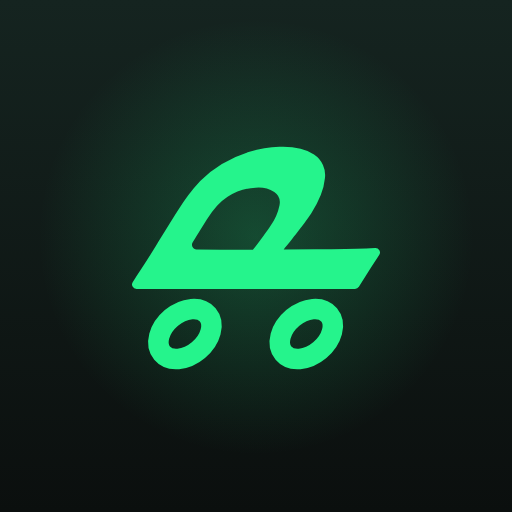
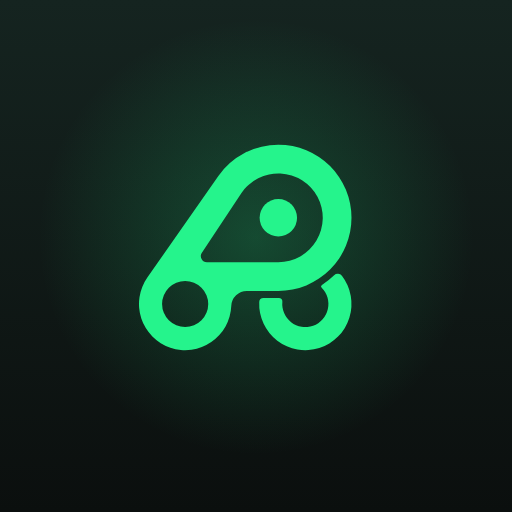
chore(play): el arte de la ficha deja de ensenar la marca de 2022 [PLAY-THE-LISTING-ART-STILL-SHOWS-THE-2022-MARK-001]
La marca de 2026 entro en las 21 superficies del producto, pero los PNG YA RENDERIZADOS de la
ficha de Play no se habian vuelto a generar: el icono de 512 y el grafico de funciones seguian
siendo el render de PLAY-LISTING-001, con el logo de 2022 y su disco.

Lo primero que se comprobo es lo que valida todo lo demas: `export_surfaces.py` no movio un solo
byte. O sea que `icon.html` y `feature.html` YA llevaban la marca nueva dentro, y lo unico
pendiente era rasterizar. No habia nada que redibujar.

QUE SE REGENERA

- `play-icon-512.png` (celda B de `icon.html`, glifo a 0,72) y las dos alternativas, celdas A y C.
- `play-feature-graphic-1024x500.png`, el de la ficha predeterminada, que es exactamente el `en`.
- Los nueve `screenshots/<loc>/<loc>-feature-graphic-1024x500.png`. Son derivados gitignored: se
  regeneran, no se versionan.

NACE `tools/render_graphics.sh`, Y ES EL ARREGLO DE VERDAD

El README tenia un comando de Chrome suelto que habia que copiar, completarle una ruta absoluta a
mano y repetir diez veces. Eso no es una herramienta, es una nota — y el resultado esta medido: los
PNG pasaron ocho dias con el logo viejo mientras su propia fuente ya tenia el nuevo. El script hace
las tres cosas que el comando dejaba al lector:

- recorta las TRES celdas del icono (el row es 1536x512);
- aplana a RGB, porque Chrome escribe RGBA y Play quiere los dos graficos opacos;
- espera a que cargue la fuente. `feature.html` trae Plus Jakarta Sans por `file://` y pinta el
[…]

Changed region(s): [[0.25, 0.2812, 0.75, 0.7188]]

diff --git a/docs/release/play-listing/assets/feature.html b/docs/release/play-listing/assets/feature.html
@@ -75,7 +75,10 @@
     es:'Aparca y olvídate.<br><b>Paparcar lo recuerda.</b>',
     it:'Parcheggia e dimenticatene.<br><b>Paparcar se lo ricorda.</b>',
     pt:'Estaciona e esquece.<br><b>O Paparcar lembra-se.</b>',
-    fr:'Garez-vous et n\'y pensez plus.<br><b>Paparcar s\'en souvient.</b>',
+    // Apostrofo TIPOGRAFICO (U+2019), no el recto: en frances el recto es un
+    // sustituto de maquina de escribir, y esto es un banner de tienda, no codigo.
+    // De paso deja de necesitar escape dentro de la cadena JS.
+    fr:'Garez-vous et n’y pensez plus.<br><b>Paparcar s’en souvient.</b>',
     de:'Parken und vergessen.<br><b>Paparcar merkt es sich.</b>',
     nl:'Parkeer en vergeet het.<br><b>Paparcar onthoudt het.</b>',
     pl:'Zaparkuj i zapomnij.<br><b>Paparcar pamięta.</b>',

diff --git a/docs/release/play-listing/README.md b/docs/release/play-listing/README.md
@@ -6,26 +6,57 @@ Generado el 2026-08-29 para la **Ficha de Play Store predeterminada** (en-US).
 |---|---|
 | `LISTING.md` | Los textos: nombre, descripción breve y completa, en **en-US** y **es-ES**, más los campos de contacto/URLs |
 | `assets/play-icon-512.png` | **Icono de la aplicación** — 512×512, PNG RGB (sin alpha), 15 KB |
-| `assets/play-feature-graphic-1024x500.png` | **Gráfico de funciones** — 1024×500, PNG RGB, 247 KB |
+| `assets/play-feature-graphic-1024x500.png` | **Gráfico de funciones** de la ficha predeterminada (en-US) — 1024×500, PNG RGB, 199 KB |
+| `assets/screenshots/<loc>/<loc>-feature-graphic-1024x500.png` | El mismo gráfico en los otros ocho idiomas. **Derivados y gitignored**: se regeneran, no se versionan |
 | `assets/alt-icon-512-*.png` | Dos alternativas del icono, por si prefieres otro tamaño de glifo o el fondo con halo |
-| `assets/icon.html`, `assets/feature.html` | Las fuentes de los dos gráficos. Se re-renderizan con Chrome headless (comando abajo) |
+| `assets/icon.html`, `assets/feature.html` | Las fuentes de los dos gráficos. Se re-renderizan con `tools/render_graphics.sh` (abajo) |
 
 Los gráficos están construidos con los assets reales del proyecto: el glifo sale del maestro
 `docs/branding/master/` (y ahí se regenera — ⛔ no se reescribe a mano en el HTML), los colores de `ui/theme/Color.kt`
 (`PapGreen #25F48C`, `PapInk #0D1117`, `PapAmber #F4A825`, `PapBlue #5B9EFF`) y la
-tipografía es la Outfit/Inter que embarca la app. No hay ni un color ni una fuente inventada.
+tipografía es la **Plus Jakarta Sans** que embarca la app — la única familia del repo desde
+`UI-TYPE-RETIRE-THE-OLD-FAMILIES-001`. No hay ni un color ni una fuente inventada.
+
+## Qué subir al Console, y de dónde sale
+
+Re-renderizado el **29-09-2026** con la marca de 2026
+[PLAY-THE-LISTING-ART-STILL-SHOWS-THE-2022-MARK-001].
+
+| Campo del Console | Fichero |
+|---|---|
+| Icono de la aplicación | `assets/play-icon-512.png` — uno solo, no se localiza |
+| Gráfico de funciones · en-US | `assets/play-feature-graphic-1024x500.png` |
+| Gráfico de funciones · los otros 8 | `assets/screenshots/<loc>/<loc>-feature-graphic-1024x500.png` |
+| Capturas de teléfono | `assets/screenshots/<loc>/<loc>-play-shot-{1..8}.png` — ⚠ derivadas: si no están, `tools/render.sh` |
+| Nombre · breve · completa, 9 idiomas | `paste/play-<locale>.txt` (o `paste/play-listing-import.md` del tirón) |
+
+⛔ **Los gráficos por idioma y las capturas son derivados gitignored**: en un clon limpio no están,
+y eso es a propósito (59 MB en un repo de 88). Antes de abrir el Console, correr el render.
+
+⏳ **Lo que sigue pendiente del user desde el 27-09**, y que este ticket no toca: pegar la
+descripción completa de los 9 idiomas. El paso 1 de «CÓMO FUNCIONA» vivo en Play todavía dice
+«también puedes marcarlo a mano», y lo correcto está en `paste/` desde `72e78f9bd`.
 
 ## Re-renderizar los gráficos
 
 ```bash
-CHROME="/c/Program Files/Google/Chrome/Application/chrome.exe"
-"$CHROME" --headless=new --disable-gpu --hide-scrollbars --allow-file-access-from-files \
-  --force-device-scale-factor=1 --window-size=1024,500 \
-  --screenshot=out.png "file:///<ruta absoluta>/feature.html"
+python docs/branding/master/export_surfaces.py      # PRIMERO, si cambió el dibujo de la marca
+bash docs/release/play-listing/tools/render_graphics.sh             # icono + los 9 idiomas
+bash docs/release/play-listing/tools/render_graphics.sh feature es  # sólo uno
 ```
-`feature.html` necesita las fuentes en `./fonts/` (cópialas de
-`shared/src/commonMain/composeResources/font/`). El icono se renderiza con
-`--window-size=1536,512` y se recorta en tres celdas de 512.
+
+⛔ **Aquí había un comando de Chrome suelto, y ése es el defecto que este script cierra**
+[PLAY-THE-LISTING-ART-STILL-SHOWS-THE-2022-MARK-001]: los dos HTML llevan la **marca**, la marca se
+GENERA (`export_surfaces.py` reescribe sus grupos del glifo), y un comando que hay que copiar,
+completar a mano con una ruta absoluta y repetir diez veces no se vuelve a correr. Resultado
+medido: `play-icon-512.png` pasó **ocho días** enseñando el logo de 2022 mientras su propio
+`icon.html` ya tenía el de 2026 dentro.
+
+El script hace las tres cosas que el comando dejaba al lector: recorta las **tres celdas** del
+icono (el row es 1536×512), aplana a **RGB** (Chrome escribe RGBA y Play quiere los dos gráficos
+opacos) y da tiempo a que cargue la fuente — sin `--virtual-time-budget` la captura puede caer en
+la familia de respaldo, que **parece un render que salió bien**. `feature.html` busca las fuentes
+en `assets/fonts/` (ya están; salen de `shared/src/commonMain/composeResources/font/`).
 
 ---
 
@@ -123,7 +154,9 @@ misma tarea (ninguna de las cuatro se nombra hoy).
       **Localizado el 02-09 a los 9 idiomas**: `screenshots/{lang}/feature-graphic-1024x500.png`
       (la frase sale de `feature.html?lang=…`; tipografía migrada a Plus Jakarta Sans porque
       las Outfit/Inter que pedía la plantilla ya no existen en el repo — el
-      `play-feature-graphic-1024x500.png` de la raíz es el render Outfit del 29-08, superseded).
+      `play-feature-graphic-1024x500.png` de la raíz **ya no está superseded**: desde el 29-09
+      es exactamente el render `en` —misma Jakarta, misma marca— y es el único de los diez que
+      sobrevive a un clon limpio, porque los otros ocho son derivados gitignored).
 
 > Copy vigente y su auditoría: `LISTING.md`. El razonamiento completo (qué se promete,
 > qué se descarta y por qué) está en `PLAN-OPTIMIZACION.md`.

diff --git a/docs/backlog/play-the-listing-art-still-shows-the-2022-mark-001.md b/docs/backlog/play-the-listing-art-still-shows-the-2022-mark-001.md
@@ -1,6 +1,8 @@
 # PLAY-THE-LISTING-ART-STILL-SHOWS-THE-2022-MARK-001 · la ficha de Play sigue enseñando la marca que ya no existe
 
-**Estado:** 🔵 Abierto · sin rama · follow-up sacado a propósito del alcance de
+**Estado:** ✅ **Done** (29-09-2026) · rama
+`chore/PLAY-THE-LISTING-ART-STILL-SHOWS-THE-2022-MARK-001-relisting` · worktree
+`../Paparcar-play-art` · follow-up sacado a propósito del alcance de
 `BRAND-A-NEW-MARK-EARNS-ITS-SURFACES-001` (mergeado el 29-09-2026).
 
 ## Problema
@@ -51,3 +53,72 @@ encuadre.
 
 Pendiente de barrer al abrirlo: `grep -rl "play-icon-512\|feature-graphic" docs/ web/` para saber
 qué más referencia esos bytes (el README de release y, posiblemente, el generador de la ficha).
+
+---
+
+## Resuelto — qué se hizo el 29-09-2026
+
+**Primero, la comprobación que valida todo lo demás**: `python docs/branding/master/export_surfaces.py`
+no movió **un solo byte**. Es lo que demuestra que `icon.html` y `feature.html` ya llevaban la marca
+de 2026 y que lo único pendiente era rasterizar — no había nada que redibujar.
+
+### Nace `tools/render_graphics.sh`
+
+El README tenía un comando de Chrome que había que copiar, completarle una ruta absoluta a mano y
+repetir diez veces. Eso no es una herramienta: es una nota. Y el resultado está medido — los PNG
+llevaban **ocho días** con el logo de 2022 mientras su propia fuente ya tenía el de 2026.
+
+El script hace las tres cosas que el comando dejaba al lector:
+- **recorta las tres celdas** del icono (el row es 1536×512 y el vivo es la B, glifo a 0,72);
+- **aplana a RGB**, porque Chrome escribe RGBA y Play quiere los dos gráficos opacos;
+- **espera a la fuente** (`--virtual-time-budget=4000`). `feature.html` carga Plus Jakarta Sans por
+  `file://` y pinta el tagline desde un script: sin esa espera la captura puede caer en la familia
+  de respaldo, y eso **parece un render que salió bien**.
+
+⚠ Al escribirlo mordió una trampa que merece quedar escrita: `cygpath -w | sed 's|\|/|g'` (la
+forma que usa `render.sh`) se rompió aquí, y con `set -eu` el fallo **no paró el script** — cayó al
+fallback POSIX y Chrome rindió **igualmente** capturas del tamaño correcto. Se cambió a
+`cygpath -m`, que ya devuelve barras normales. La lección es la de siempre en este ticket: el
+tamaño del PNG no dice nada de su contenido; **hay que mirarlo**.
+
+### Verificado mirando los píxeles, no el exit code
+
+- Icono y gráfico `en` abiertos y comprobados a ojo: marca de 2026, sin disco.
+- Las 9 franjas del tagline tienen **hash distinto** entre sí y ninguna está vacía — eso descarta de
+  una vez «el `?lang=` no se aplicó» y «la fuente no cargó».
+- Los tres iconos difieren entre ellos (no se cortó tres veces la misma celda).
+- El gráfico de la raíz es **idéntico** al `en`, que es la relación que debe cumplirse.
+
+### Y un arreglo de copy que salió al mirar el render
+
+El banner francés escribía el apóstrofo RECTO (`n'y pensez`, `s'en souvient`), heredado de vivir
+dentro de una cadena JS donde además había que escaparlo. En francés el recto es un sustituto de
+máquina de escribir: la forma correcta es la tipográfica `’` (U+2019). Cambiado en `feature.html`
+y re-renderizado sólo el `fr`. Es el ÚNICO idioma afectado — ninguno de los otros ocho taglines
+lleva apóstrofo.
+
+⛔ No confundir esta decisión con la regla de la app. Allí lo que se prohíbe es el ESCAPE: en
+`composeResources` el apóstrofo va crudo porque `\'` se imprime tal cual, con la barra dentro
+[COPY-APOSTROPHE-IS-NOT-ESCAPED-001]. Aquí no estamos en Compose Resources sino en HTML+JS, el
+escape funciona, y lo que se decide no es cómo escribirlo sino QUÉ GLIFO se dibuja.
+
+### Barrido de consumidores
+
+| Consumidor de la marca en la ficha | Estado |
+|---|---|
+| `assets/play-icon-512.png` (celda B) | ✅ regenerado |
+| `assets/alt-icon-512-small-glyph.png` (celda A) · `alt-icon-512-glow.png` (celda C) | ✅ regenerados |
+| `assets/play-feature-graphic-1024x500.png` (= `en`) | ✅ regenerado |
+| Los 9 `screenshots/<loc>/<loc>-feature-graphic-1024x500.png` | ✅ regenerados (derivados, gitignored) |
+| `assets/alt-feature-graphic-no-name-repeat.png` | 🗑 **borrado**: marca de 2022 **y** copy superseded el 29-08, no regenerable desde la plantilla |
+| `paste/` (los textos de los 9 idiomas) | ✅ `make_paste.py --check` → al día; el cambio de marca no toca copy |
+| `web/assets/img/apple-touch-icon.png` | ✅ ya traía la marca nueva del ticket de marca |
+| `web/assets/img/og-card.jpg` + `og-card-small.jpg` | 🔴 **SIGUEN CON LA MARCA DE 2022** → ticket propio |
+| Las 72 capturas de teléfono | ✅ no llevan la marca dentro |
+
+**El hallazgo que no estaba en el enunciado**: `web/tools/prepare-assets.py` construye la tarjeta
+social de `paparcar.com` pegando **`play-icon-512.png`** dentro (línea ~191). O sea que el icono de
+Play no es sólo el icono de Play: es también el logo de la tarjeta que se ve al compartir el enlace.
+`apple-touch-icon` sí se rehízo en el ticket de marca; la `og-card` no, y ahí sigue el disco. No se
+arregla aquí porque `prepare_social()` necesita el raw **es** de la sesión de Play, que no está
+versionado (sólo lo está el set `en`). → `docs/backlog/web-the-social-card-still-wears-the-2022-mark-001.md`

diff --git a/docs/backlog/web-the-social-card-still-wears-the-2022-mark-001.md b/docs/backlog/web-the-social-card-still-wears-the-2022-mark-001.md
@@ -1,0 +1,64 @@
+# WEB-THE-SOCIAL-CARD-STILL-WEARS-THE-2022-MARK-001 · la tarjeta que se ve al compartir paparcar.com lleva el logo retirado
+
+**Estado:** 🔵 Abierto · sin rama · hallazgo del barrido de consumidores de
+`PLAY-THE-LISTING-ART-STILL-SHOWS-THE-2022-MARK-001` (29-09-2026).
+
+## Problema
+
+`web/assets/img/og-card.jpg` (1200×630) y su `og-card-small.jpg` (600×315) son la imagen que
+WhatsApp, Slack, X, LinkedIn o iMessage enseñan cuando alguien pega el enlace de `paparcar.com`.
+Arriba a la izquierda llevan **la marca de 2022, con su disco**, horneada dentro del JPEG.
+
+No es un descuido aislado, es un consumidor que nadie sabía que lo era:
+
+```python
+# web/tools/prepare-assets.py, prepare_social()
+logo = Image.open(ROOT / "docs/release/play-listing/assets/play-icon-512.png").convert("RGBA")
+logo = logo.resize((84, 84), Image.LANCZOS)
+card.paste(logo, (80, 74), logo)
+```
+
+**El icono de Play no es sólo el icono de Play**: es también el logo de la tarjeta social. Mientras
+`play-icon-512.png` tuvo la marca vieja, cualquier regeneración de la tarjeta la volvía a hornear.
+Su hermano `prepare_touch_icon()` lee el mismo fichero, y ése sí se rehízo en el ticket de marca —
+por eso `apple-touch-icon.png` está bien y la `og-card` no: **se regeneraron por separado**.
+
+## Doctrina violada
+
+*La web es un consumidor más de la verdad del producto.* Y una capa más: *el logo se GENERA, no se
+copia* — pero aquí se copia **dentro de un JPEG**, que es la forma de copia que ningún `grep`
+encuentra. `WebSiteParityGuardrailTest` vigila hechos, claves, gates, tokens y salida construida;
+**ninguno de sus cinco chequeos mira dentro de una imagen**.
+
+## Por qué no se arregló en el ticket que lo encontró
+
+`prepare_social()` recibe `es_dir / "shot1.png"`: el raw **en español** de la sesión de capturas de
+Play. El repo sólo versiona el set `en` (`docs/release/play-listing/assets/screenshots/raw/`, que es
+el de Dublín, en inglés) — los otros ocho idiomas son derivados gitignored. Con el raw `en` saldría
+una tarjeta con copy español y teléfono inglés, que es peor que la que hay.
+
+⛔ **Y no vale pegarle el logo nuevo encima al JPEG actual**: eso es exactamente la copia a mano que
+el maestro paramétrico vino a matar, y deja el fichero sin forma de reproducirse.
+
+## Diseño
+
+Dos caminos, y el segundo es el que cierra la familia entera:
+
+1. **El barato**: recuperar (o volver a tomar) el raw `es` de la sesión de Play y correr
+   `python web/tools/prepare-assets.py <es-raw> <en-raw>`. Arregla ESTA tarjeta, hoy.
+2. **El que arregla la clase**: que `prepare_social()` no pegue un PNG rasterizado, sino que dibuje
+   la marca desde el maestro —igual que `export_surfaces.py` hace con las otras 21 superficies— y
+   que el raw que usa la tarjeta sea **versionado**, no un archivo suelto de una sesión. Mientras la
+   tarjeta dependa de un fichero que no está en el repo, se queda atrás en cuanto nadie lo tenga.
+
+## Criterio de éxito
+
+- `og-card.jpg` y `og-card-small.jpg` muestran la marca de 2026 sin disco.
+- Regenerar dos veces seguidas da el mismo byte (la tarjeta es reproducible desde el repo solo).
+- Un chequeo que falsifique el defecto: hoy no existe ninguno que mire dentro de una imagen.
+
+## Consumidores auditados
+
+`grep -rn "play-icon-512" web/` → `prepare-assets.py` en dos sitios: `prepare_social()` (roto) y
+`prepare_touch_icon()` (ya correcto). Fuera de `web/`, el icono sólo lo consume la propia ficha de
+Play.

diff --git a/docs/release/play-listing/LISTING.md b/docs/release/play-listing/LISTING.md
@@ -232,9 +232,14 @@ Versión ES, por si algún día hay gráfico localizado:
 Aparca y olvídate. Paparcar lo recuerda.
 ```
 
-🟡 **Alternativa disponible sin decidir**: `assets/alt-feature-graphic-no-name-repeat.png`
-dice «Park and forget it. **It remembers for you.**». La versión aplicada repite «Paparcar»
-justo debajo del wordmark; la alternativa lo evita a cambio de un remate menos rotundo.
+⛔ **La alternativa `alt-feature-graphic-no-name-repeat.png` se BORRÓ el 29-09**
+[PLAY-THE-LISTING-ART-STILL-SHOWS-THE-2022-MARK-001]. Decía «Park and forget it. **It remembers
+for you.**» —copy superseded el 29-08— y, sobre todo, llevaba dibujada **la marca de 2022 con su
+disco**: un banner listo para subir, en la misma carpeta desde la que se sube, enseñando un logo
+que ya no existe. No era regenerable desde `feature.html` (la plantilla no tiene esa variante),
+así que no había forma de ponerla al día sin redibujarla a mano. Vive en el historial de git si
+alguna vez se quiere recuperar la idea: evitar que «Paparcar» se repita justo debajo del
+wordmark, a cambio de un remate menos rotundo.
 
 ---
 
